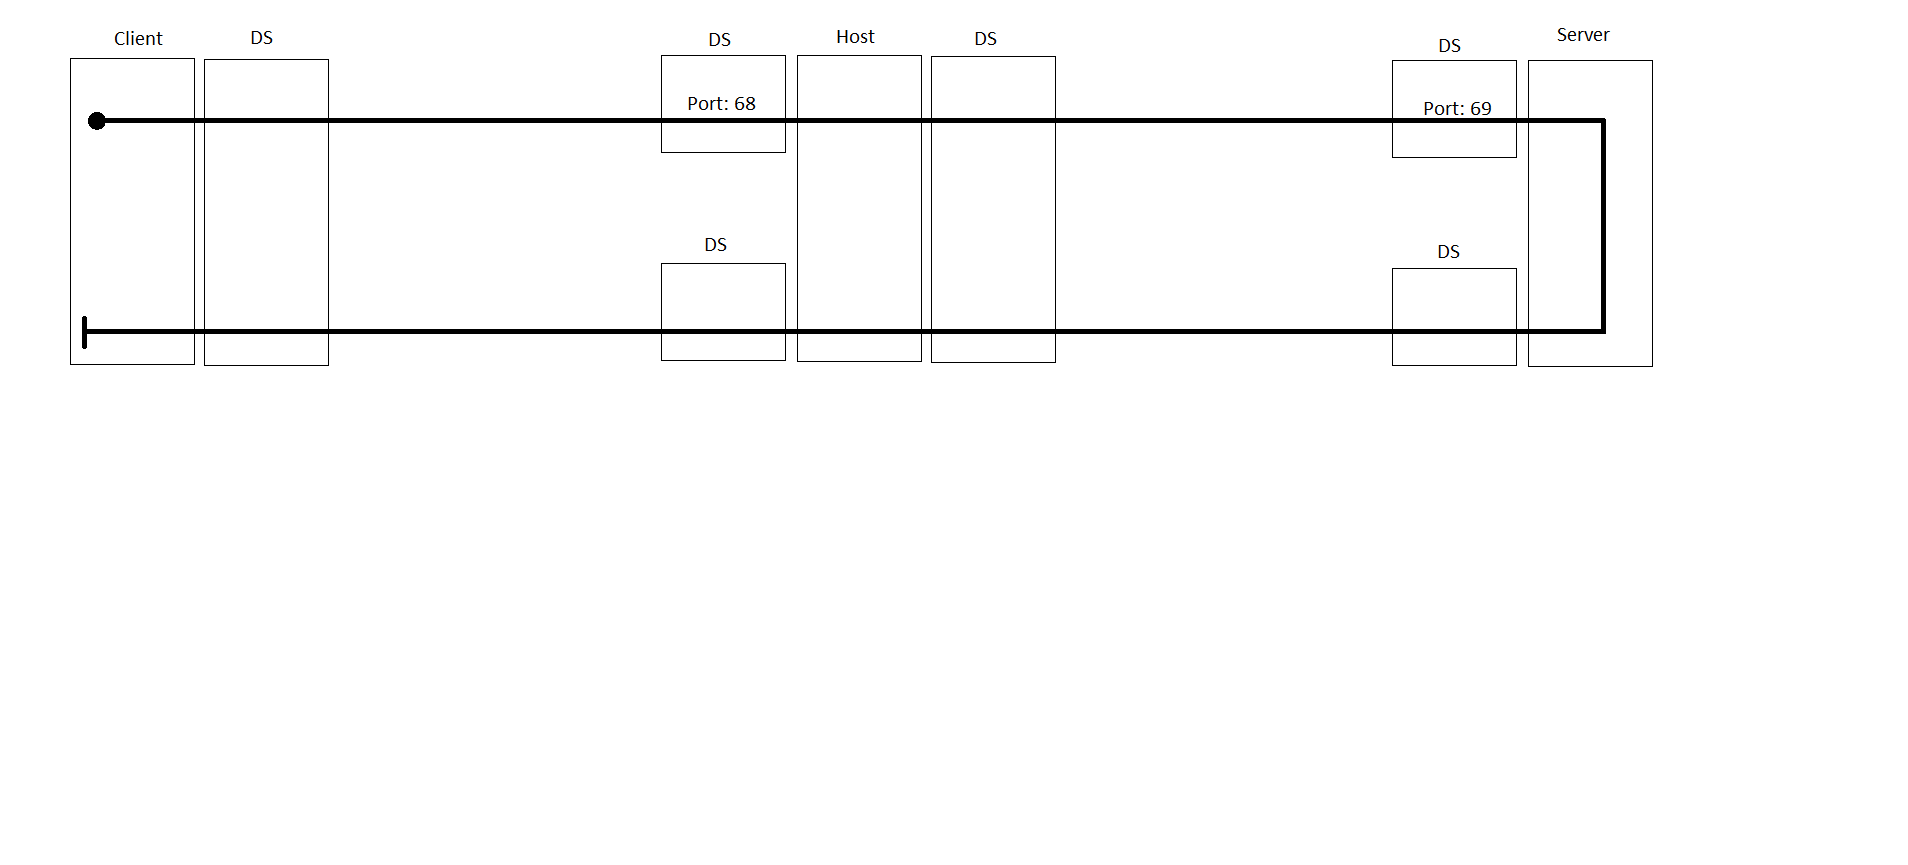
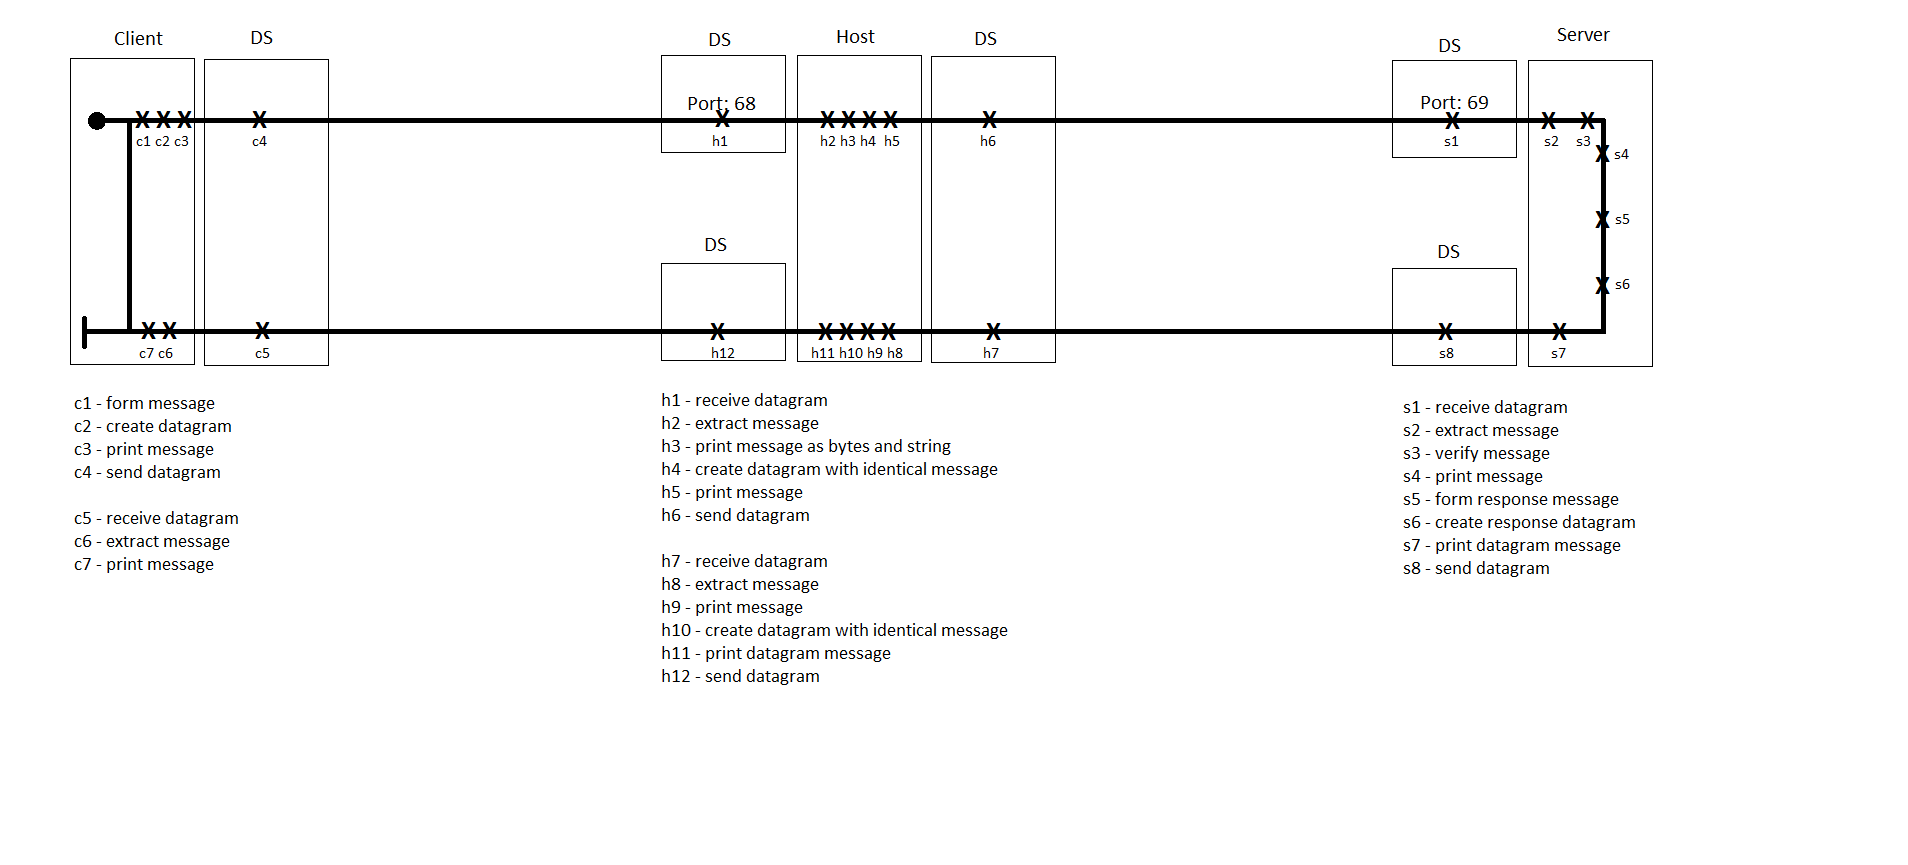
improved printing and finished UCM

diff --git a/Java/SYSC3303/Assign1/src/assign1/Host.java b/Java/SYSC3303/Assign1/src/assign1/Host.java
@@ -57,7 +57,8 @@ public class Host {
 				//host prints out the information received as bytes and string
 				buf = new byte[packet.getLength()];
 				System.arraycopy(packet.getData(), packet.getOffset(), buf, 0, packet.getLength());
-				System.out.println("Received: " + Arrays.toString(buf) + ", " + new String(buf));
+				//System.out.println("Received: " + Arrays.toString(buf) + ", " + new String(buf));
+				printDatagram("Received", packet.getPort(), buf);
 
 				//host records client port for later use
 				clientPort = packet.getPort();
@@ -65,7 +66,8 @@ public class Host {
 				//host forms a packet containing identical data, for port 69
 				packet = new DatagramPacket(buf, buf.length, InetAddress.getLocalHost(), SERVER_PORT);
 				//print out information that is going to be send to server
-				System.out.println("Sending: " + Arrays.toString(buf) + ", " + new String(buf));
+				//System.out.println("Sending: " + Arrays.toString(buf) + ", " + new String(buf));
+				printDatagram("Sending", packet.getPort(), buf);
 
 				//sends packet on send/receive socket to port 69
 				serverSocket.send(packet);
@@ -78,12 +80,14 @@ public class Host {
 				//print out information that is received as bytes and string
 				buf = new byte[packet.getLength()];
 				System.arraycopy(packet.getData(), packet.getOffset(), buf, 0, packet.getLength());
-				System.out.println("Received: " + Arrays.toString(buf) + ", " + new String(buf));
+				//System.out.println("Received: " + Arrays.toString(buf) + ", " + new String(buf));
+				printDatagram("Received", packet.getPort(), buf);
 				
 				//create new packet with same data, to be sent back to client
 				packet = new DatagramPacket(buf, buf.length, InetAddress.getLocalHost(), clientPort);
 				//print out information to be sent to client
-				System.out.println("Sending: " + Arrays.toString(buf) + ", " + new String(buf));
+				//System.out.println("Sending: " + Arrays.toString(buf) + ", " + new String(buf));
+				printDatagram("Sending", packet.getPort(), buf);
 
 				//create DS to use to send packet to client
 				clientSocket = new DatagramSocket();
@@ -95,9 +99,21 @@ public class Host {
 			}
 
 		}catch(Exception e){
-
+			e.printStackTrace();
 		}
 
+	}
+	
+	/**
+	 * Print the mode port and buffer contents as bytes and string.
+	 * @param mode either Sending or Receiving
+	 * @param port where the packet is received from or sent to
+	 * @param buf the contents of the datagram packet
+	 */
+	private void printDatagram(String mode, int port, byte[] buf){
+		System.out.println(mode + " to/from :" + port);
+		System.out.println("bytes: " + Arrays.toString(buf));
+		System.out.println("string: " + new String(buf));
 	}
 
 	/**

diff --git a/Java/SYSC3303/Assign1/src/assign1/Server.java b/Java/SYSC3303/Assign1/src/assign1/Server.java
@@ -66,7 +66,8 @@ public class Server {
 				System.arraycopy(packet.getData(), packet.getOffset(), buf, 0, packet.getLength());
 				result = verifyData(buf);
 				//print out information received as bytes and string
-				System.out.println("Received: " + Arrays.toString(buf) + ", " + new String(buf));
+				//System.out.println("Received: " + Arrays.toString(buf) + ", " + new String(buf));
+				printDatagram("Received", packet.getPort(), buf);
 
 				//if request is to read, prepare 0301 byte response
 				if(result == RDQ)
@@ -81,7 +82,8 @@ public class Server {
 				//create response packet with appropriate byte response
 				packet = new DatagramPacket(buf, buf.length, InetAddress.getLocalHost(), packet.getPort());
 				//print response information in bytes and string
-				System.out.println("Sending: " + Arrays.toString(buf) + ", " + new String(buf));
+				//System.out.println("Sending: " + Arrays.toString(buf) + ", " + new String(buf));
+				printDatagram("Sending", packet.getPort(), buf);
 
 				//create DS for use on just this request
 				DatagramSocket tempSocket = new DatagramSocket();
@@ -170,6 +172,18 @@ public class Server {
 			return INV;
 
 		return data[1];		
+	}
+	
+	/**
+	 * Print the mode port and buffer contents as bytes and string.
+	 * @param mode either Sending or Receiving
+	 * @param port where the packet is received from or sent to
+	 * @param buf the contents of the datagram packet
+	 */
+	private void printDatagram(String mode, int port, byte[] buf){
+		System.out.println(mode + " to/from :" + port);
+		System.out.println("bytes: " + Arrays.toString(buf));
+		System.out.println("string: " + new String(buf));
 	}
 
 	/**

diff --git a/Java/SYSC3303/Assign1/src/assign1/Client.java b/Java/SYSC3303/Assign1/src/assign1/Client.java
@@ -57,7 +57,8 @@ public class Client {
 				packet = new DatagramPacket(buf, buf.length, InetAddress.getLocalHost(), HOST_PORT);
 
 				//print out packet information as bytes and string
-				System.out.println("Sending: " + Arrays.toString(buf) + ", " + new String(buf));
+				//System.out.println("Sending: " + Arrays.toString(buf) + ", " + new String(buf));
+				printDatagram("Sending", packet.getPort(), buf);
 
 				//send packet to port 68
 				socket.send(packet);
@@ -71,11 +72,24 @@ public class Client {
 				//print packet data as bytes and string
 				buf = new byte[packet.getLength()];
 				System.arraycopy(packet.getData(), packet.getOffset(), buf, 0, packet.getLength());
-				System.out.println("Received: " + Arrays.toString(buf) + ", " + new String(buf));
+				//System.out.println("Received: " + Arrays.toString(buf) + ", " + new String(buf));
+				printDatagram("Received", packet.getPort(), buf);
 			}
 			socket.close();
 		}catch(Exception e){	
 		}
+	}
+	
+	/**
+	 * Print the mode port and buffer contents as bytes and string.
+	 * @param mode either Sending or Receiving
+	 * @param port where the packet is received from or sent to
+	 * @param buf the contents of the datagram packet
+	 */
+	private void printDatagram(String mode, int port, byte[] buf){
+		System.out.println(mode + " to/from :" + port);
+		System.out.println("bytes: " + Arrays.toString(buf));
+		System.out.println("string: " + new String(buf));
 	}
 
 	/**
